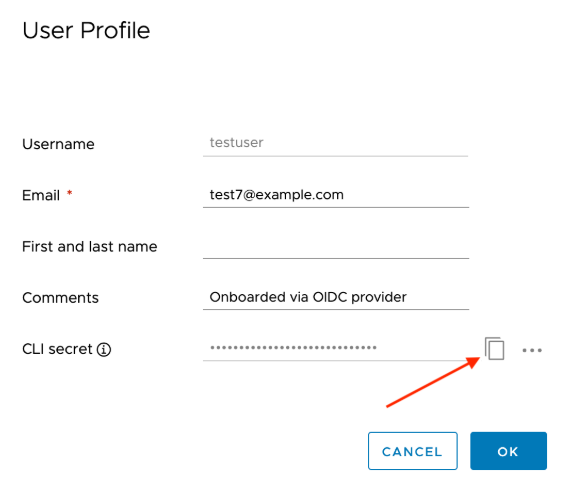
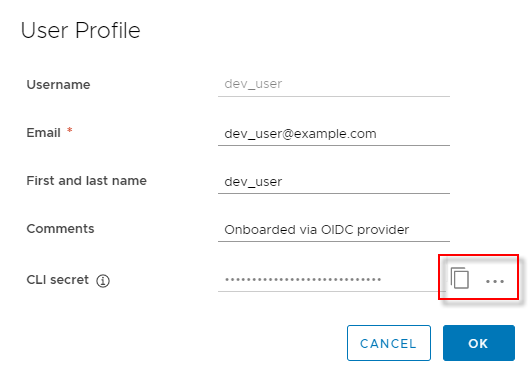
Added user-generated CLI secret

diff --git a/docs/user_guide.md b/docs/user_guide.md
@@ -217,9 +217,12 @@ The Docker and Helm CLIs cannot handle redirection for OIDC, so Harbor provides 
 1. Click the clipboard icon to copy the CLI secret associated with your account.
 
    ![Copy CLI secret](img/profile_dlg.png)
-1. Optionally click the **...** icon in your user profile to display a button for generating new CLI secret. 
+1. Optionally click the **...** icon in your user profile to display buttons for automatically generating or manually creating a new CLI secret.
 
-   A user can only have one CLI secret, so when a new secret is generated, the old one becomes invalid.
+   ![Copy CLI secret](img/generate_create_new_secret.png) 
+
+   A user can only have one CLI secret, so when a new secret is generated or create, the old one becomes invalid.
+1. If you generated a new CLI secret, click the clipboard icon to copy it.
 
 You can now use your CLI secret as the password when logging in to Harbor from the Docker or Helm CLI.
 
